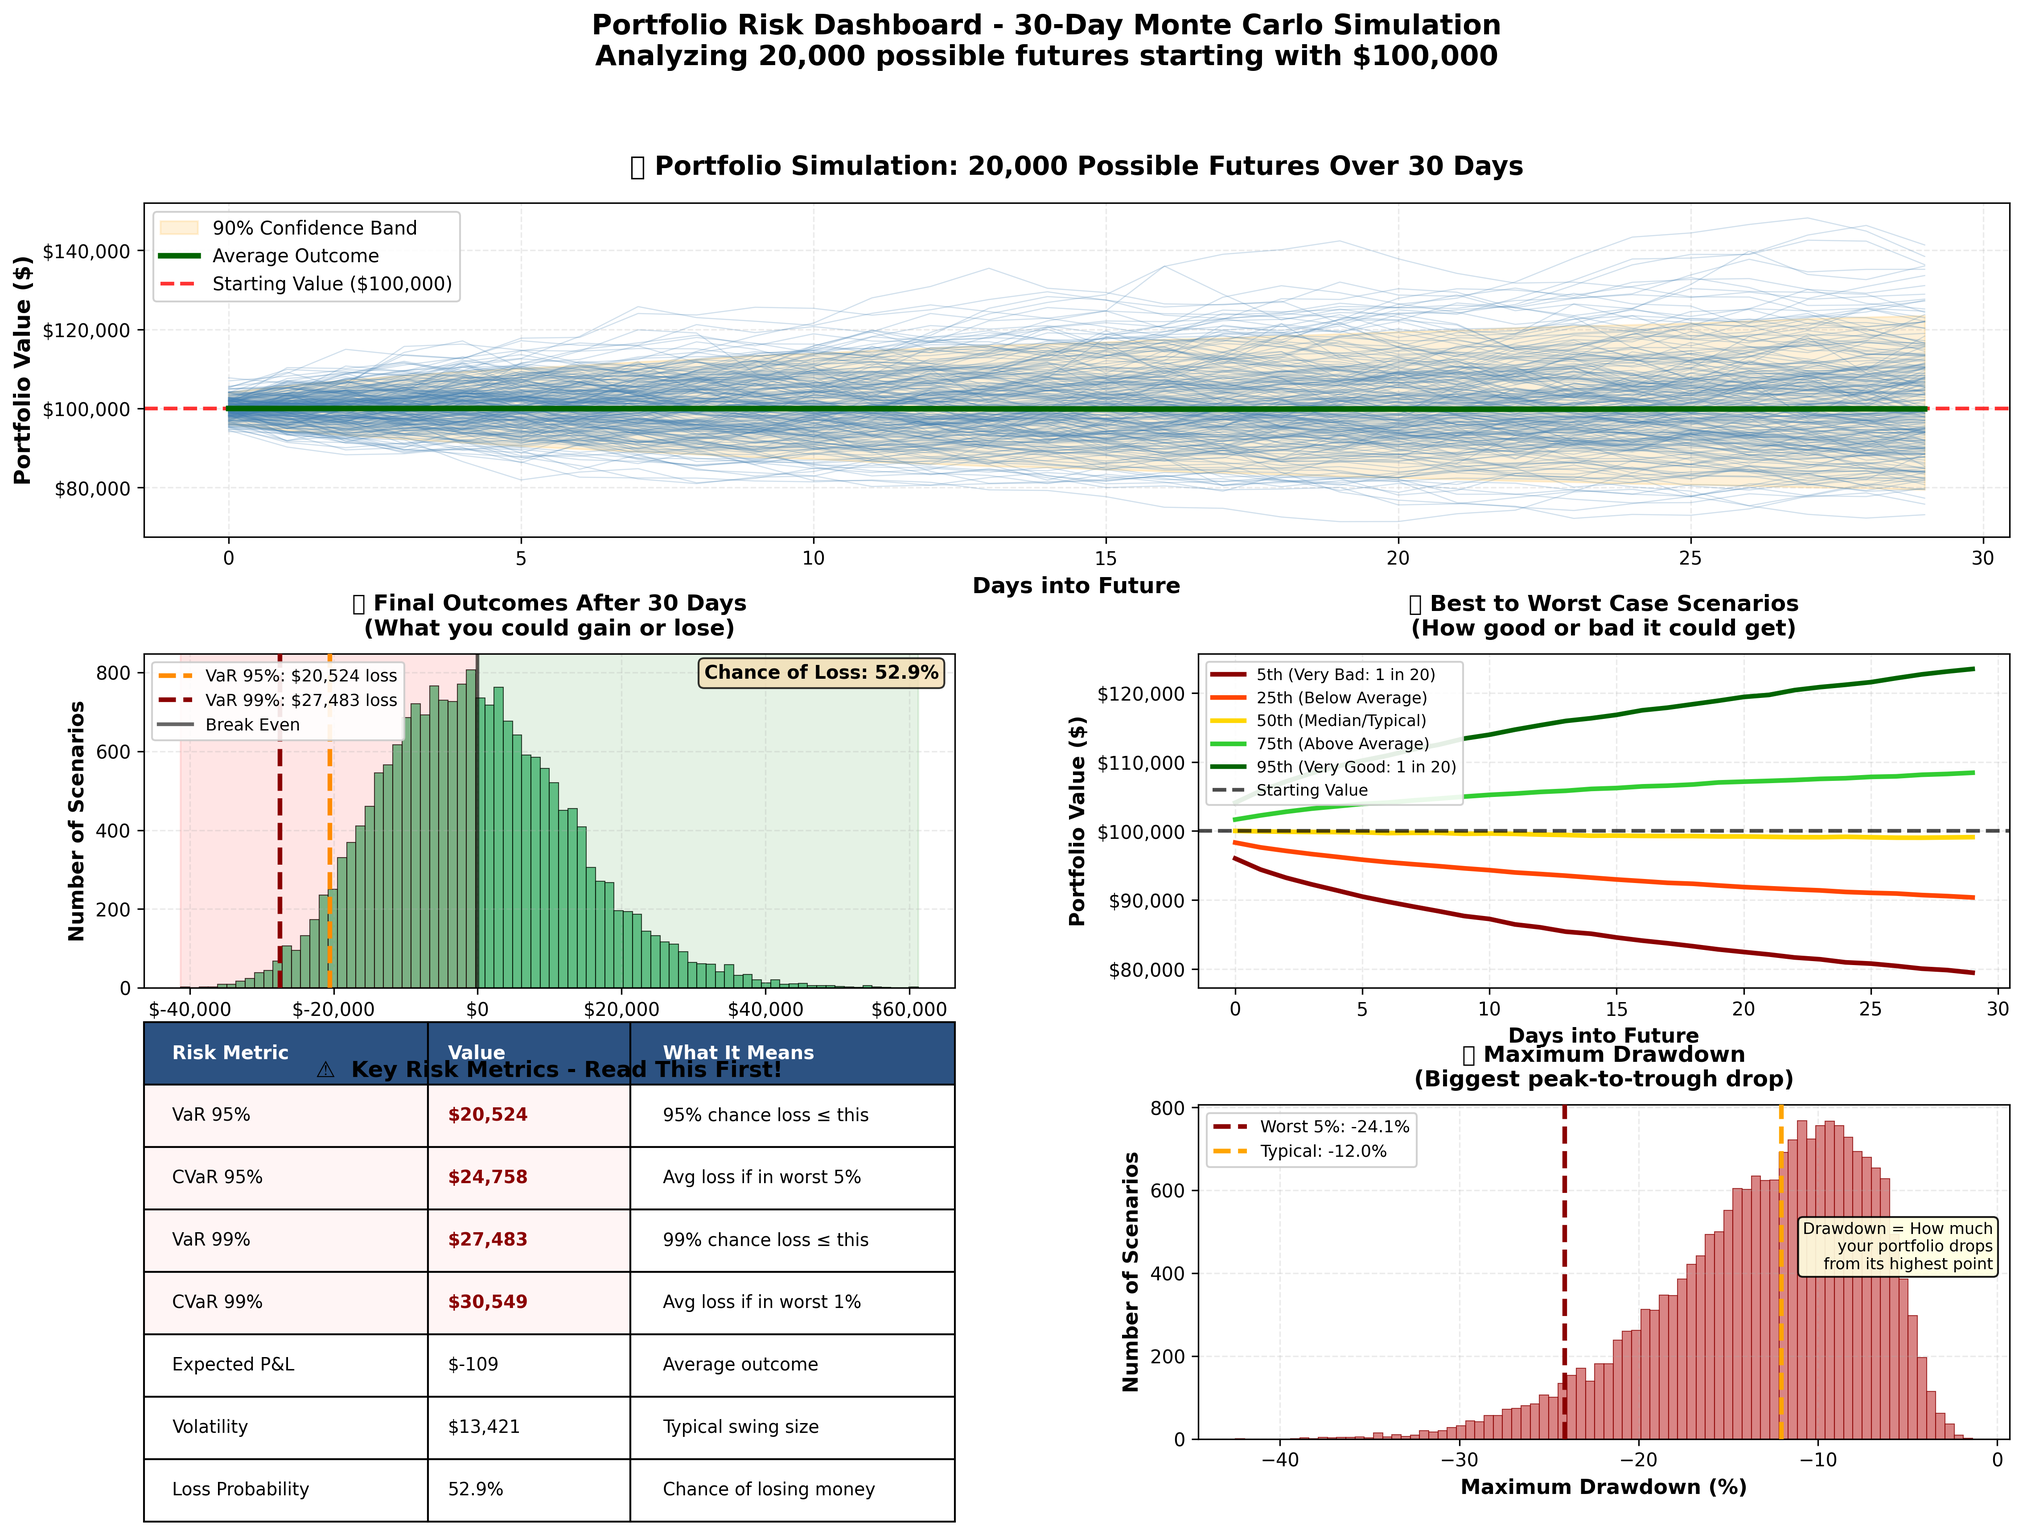
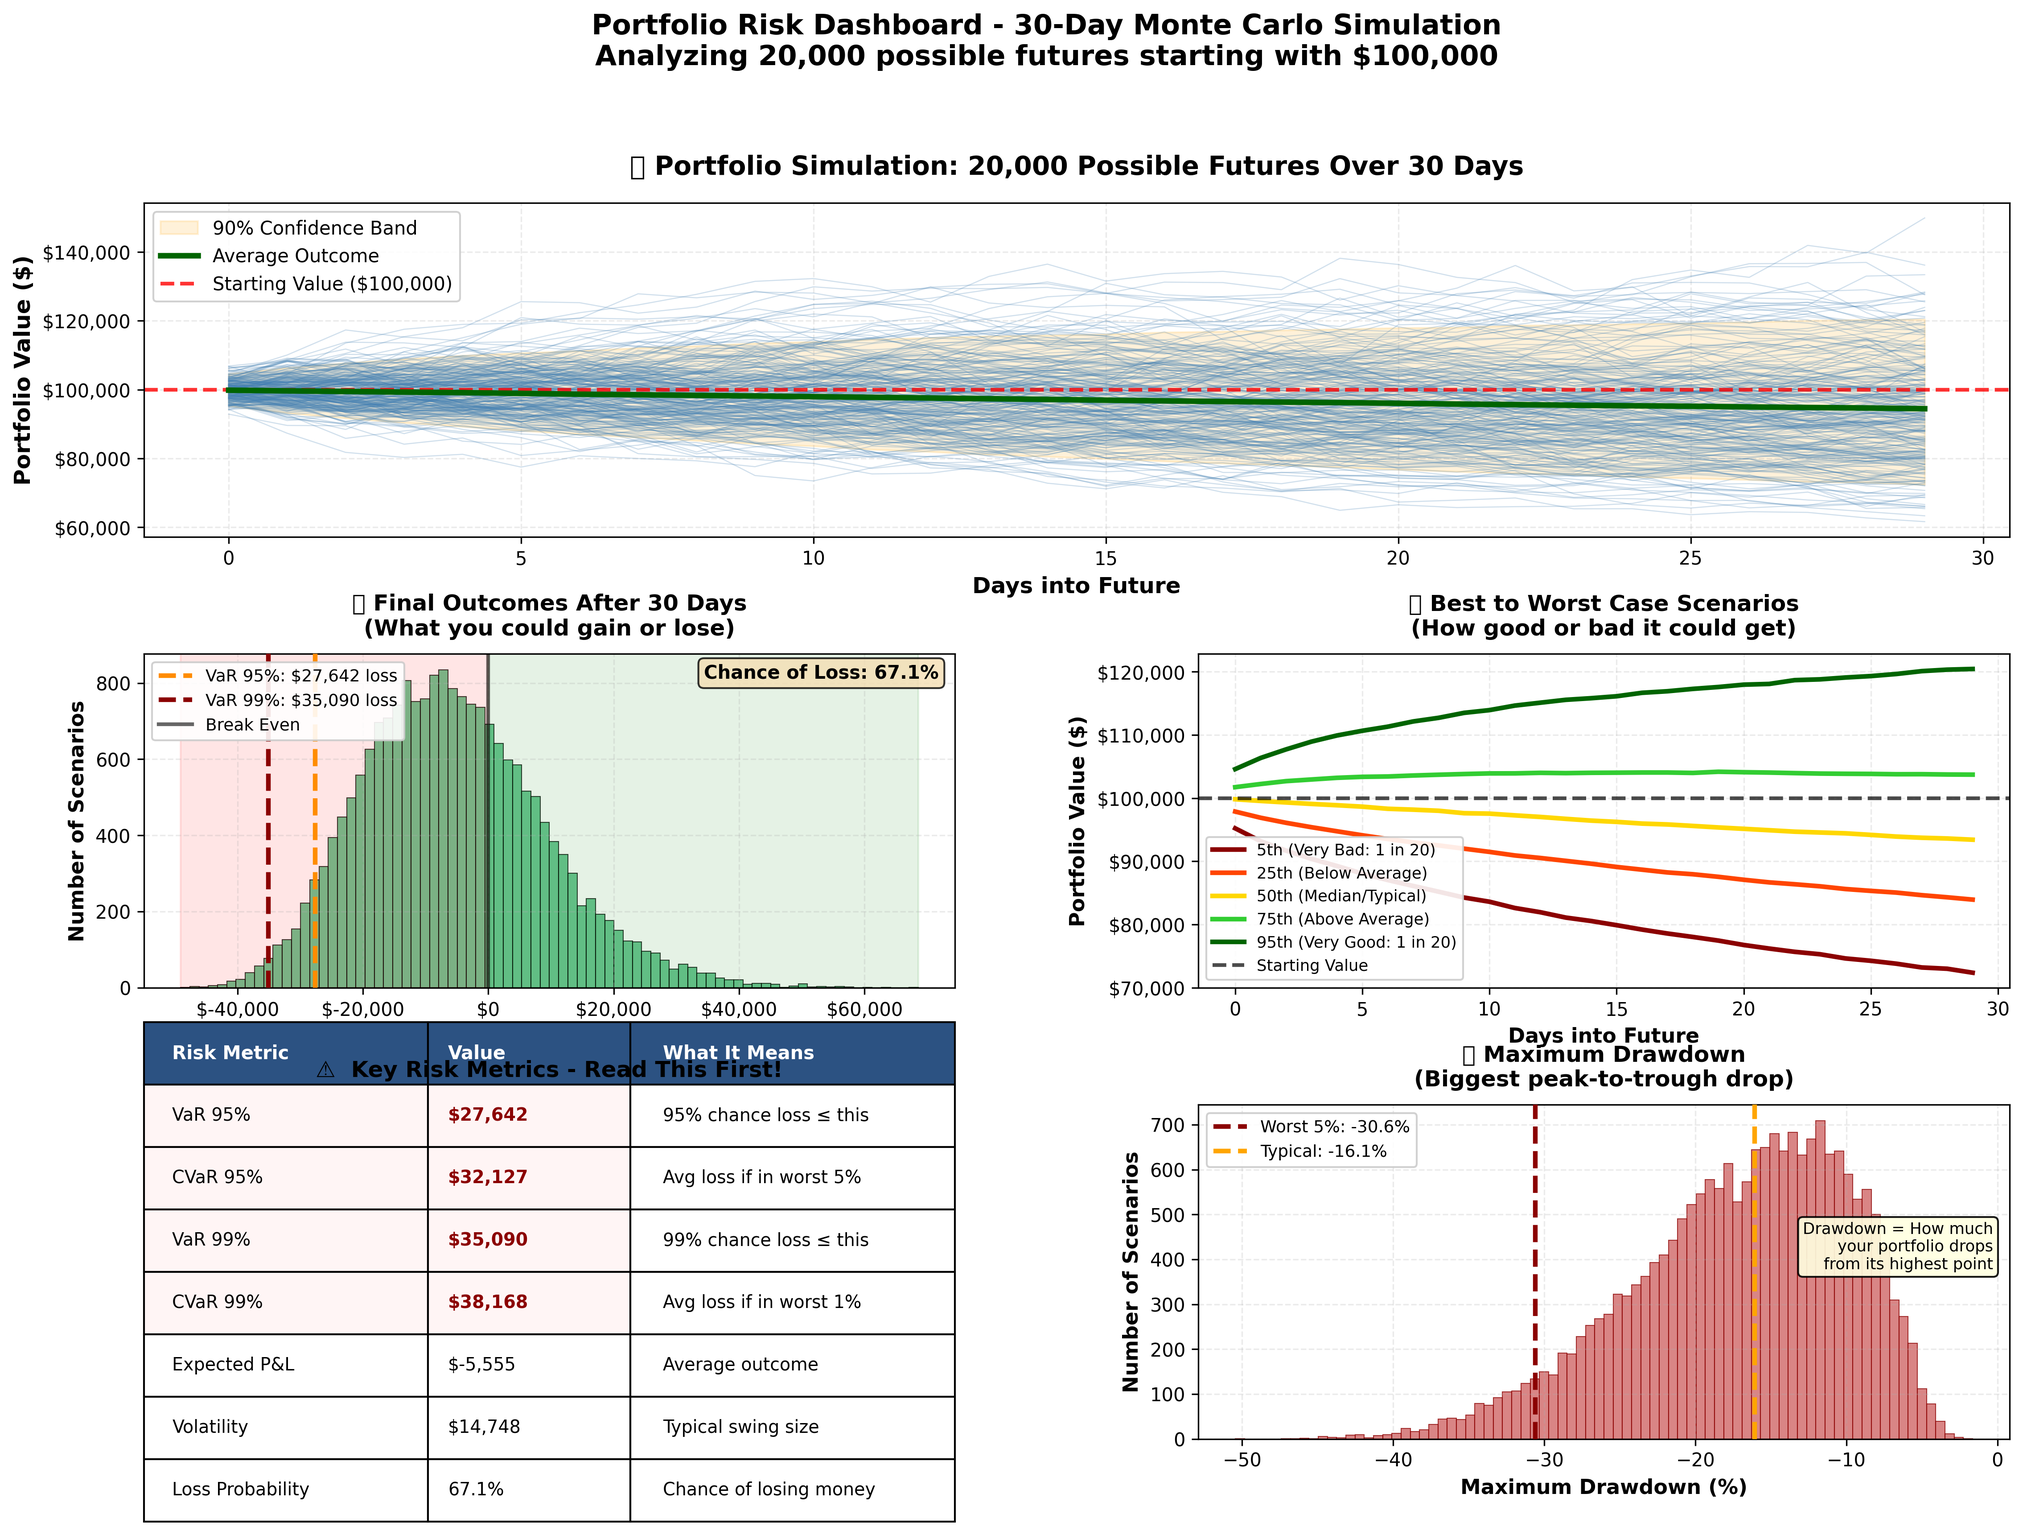
bear and bull

diff --git a/src/reporting/visualize.py b/src/reporting/visualize.py
@@ -325,8 +325,145 @@ def plot_risk_dashboard(
         Path(save_path).parent.mkdir(parents=True, exist_ok=True)
         fig.savefig(save_path, dpi=300, bbox_inches='tight')
         print(f"✓ Dashboard saved to {save_path}")
-    
+
     if show:
         plt.show()
-    
+
+    return fig
+
+
+def plot_regime_comparison(
+    mu_flat: np.ndarray,
+    mu_ewma: np.ndarray,
+    cov_flat: np.ndarray,
+    cov_ewma: np.ndarray,
+    pnl_flat: np.ndarray,
+    pnl_ewma: np.ndarray,
+    var_95_flat: float,
+    var_95_ewma: float,
+    var_99_flat: float,
+    var_99_ewma: float,
+    asset_names: list[str],
+    initial_value: float = 1.0,
+    ewma_span: int = 60,
+    save_path: str | None = None,
+    show: bool = True,
+) -> plt.Figure:
+    """
+    Three-panel figure showing how EWMA regime-awareness shifts the
+    simulation relative to the flat (equal-weight) historical baseline.
+
+    Panel 1 – Annualised drift per asset (flat vs EWMA)
+    Panel 2 – Annualised volatility per asset (flat vs EWMA)
+    Panel 3 – Overlaid terminal P&L distributions with VaR markers
+    """
+    fig = plt.figure(figsize=(18, 11))
+    gs = fig.add_gridspec(2, 2, hspace=0.38, wspace=0.3)
+
+    ax_drift = fig.add_subplot(gs[0, 0])
+    ax_vol   = fig.add_subplot(gs[0, 1])
+    ax_pnl   = fig.add_subplot(gs[1, :])
+
+    n = len(asset_names)
+    x = np.arange(n)
+    bar_w = 0.35
+
+    # ── Panel 1: Annualised drift ─────────────────────────────────────
+    drift_flat = mu_flat * 252 * 100
+    drift_ewma = mu_ewma * 252 * 100
+
+    bars_f = ax_drift.bar(x - bar_w / 2, drift_flat, bar_w,
+                          label='Flat (full history)', color='steelblue', alpha=0.85)
+    bars_e = ax_drift.bar(x + bar_w / 2, drift_ewma, bar_w,
+                          label=f'EWMA (span={ewma_span}d)', color='darkorange', alpha=0.85)
+
+    ax_drift.axhline(0, color='black', linewidth=0.8, linestyle='--')
+    ax_drift.set_xticks(x)
+    ax_drift.set_xticklabels(asset_names, fontsize=9)
+    ax_drift.set_ylabel('Annualised Return (%)', fontsize=10, fontweight='bold')
+    ax_drift.set_title('Drift: Current Regime vs Long-Run Average',
+                       fontsize=11, fontweight='bold', pad=10)
+    ax_drift.legend(fontsize=9, framealpha=0.9)
+    ax_drift.grid(True, axis='y', alpha=0.25, linestyle='--')
+    ax_drift.yaxis.set_major_formatter(mtick.FuncFormatter(lambda v, _: f'{v:+.1f}%'))
+
+    # Label each bar with its value
+    for bar in list(bars_f) + list(bars_e):
+        h = bar.get_height()
+        ax_drift.text(bar.get_x() + bar.get_width() / 2, h + (1.5 if h >= 0 else -3.5),
+                      f'{h:+.1f}%', ha='center', va='bottom', fontsize=7.5)
+
+    # ── Panel 2: Annualised volatility ────────────────────────────────
+    vol_flat = np.sqrt(np.diag(cov_flat)) * np.sqrt(252) * 100
+    vol_ewma = np.sqrt(np.diag(cov_ewma)) * np.sqrt(252) * 100
+
+    bars_vf = ax_vol.bar(x - bar_w / 2, vol_flat, bar_w,
+                         label='Flat (full history)', color='steelblue', alpha=0.85)
+    bars_ve = ax_vol.bar(x + bar_w / 2, vol_ewma, bar_w,
+                         label=f'EWMA (span={ewma_span}d)', color='darkorange', alpha=0.85)
+
+    ax_vol.set_xticks(x)
+    ax_vol.set_xticklabels(asset_names, fontsize=9)
+    ax_vol.set_ylabel('Annualised Volatility (%)', fontsize=10, fontweight='bold')
+    ax_vol.set_title('Volatility: Current Regime vs Long-Run Average',
+                     fontsize=11, fontweight='bold', pad=10)
+    ax_vol.legend(fontsize=9, framealpha=0.9)
+    ax_vol.grid(True, axis='y', alpha=0.25, linestyle='--')
+    ax_vol.yaxis.set_major_formatter(mtick.FuncFormatter(lambda v, _: f'{v:.1f}%'))
+
+    for bar in list(bars_vf) + list(bars_ve):
+        h = bar.get_height()
+        ax_vol.text(bar.get_x() + bar.get_width() / 2, h + 0.5,
+                    f'{h:.1f}%', ha='center', va='bottom', fontsize=7.5)
+
+    # ── Panel 3: Overlaid P&L distributions ──────────────────────────
+    pnl_min = min(pnl_flat.min(), pnl_ewma.min())
+    pnl_max = max(pnl_flat.max(), pnl_ewma.max())
+    bins = np.linspace(pnl_min, pnl_max, 100)
+
+    ax_pnl.hist(pnl_flat, bins=bins, alpha=0.45, color='steelblue',
+                label='Flat (full history)', density=True)
+    ax_pnl.hist(pnl_ewma, bins=bins, alpha=0.45, color='darkorange',
+                label=f'EWMA (span={ewma_span}d)', density=True)
+
+    # VaR markers for both
+    ax_pnl.axvline(-var_95_flat, color='steelblue', linestyle='--', linewidth=2,
+                   label=f'VaR 95% flat: ${var_95_flat:,.0f}')
+    ax_pnl.axvline(-var_95_ewma, color='darkorange', linestyle='--', linewidth=2,
+                   label=f'VaR 95% EWMA: ${var_95_ewma:,.0f}')
+    ax_pnl.axvline(-var_99_flat, color='steelblue', linestyle=':', linewidth=2,
+                   label=f'VaR 99% flat: ${var_99_flat:,.0f}')
+    ax_pnl.axvline(-var_99_ewma, color='darkorange', linestyle=':', linewidth=2,
+                   label=f'VaR 99% EWMA: ${var_99_ewma:,.0f}')
+    ax_pnl.axvline(0, color='black', linewidth=1.2, alpha=0.6)
+
+    # Annotate shift in expected P&L
+    delta_mean = pnl_ewma.mean() - pnl_flat.mean()
+    ax_pnl.text(0.01, 0.97,
+                f'EWMA mean P&L shift vs flat: ${delta_mean:+,.0f}',
+                transform=ax_pnl.transAxes, va='top', fontsize=10, fontweight='bold',
+                bbox=dict(boxstyle='round', facecolor='lightyellow', alpha=0.9))
+
+    ax_pnl.set_xlabel('Terminal Profit / Loss ($)', fontsize=11, fontweight='bold')
+    ax_pnl.set_ylabel('Density', fontsize=11, fontweight='bold')
+    ax_pnl.set_title('P&L Distribution: How Regime-Awareness Shifts the Simulation',
+                     fontsize=12, fontweight='bold', pad=10)
+    ax_pnl.legend(fontsize=9, framealpha=0.9, ncol=2)
+    ax_pnl.grid(True, alpha=0.25, linestyle='--')
+    ax_pnl.xaxis.set_major_formatter(mtick.FuncFormatter(lambda v, _: f'${v:,.0f}'))
+
+    plt.suptitle(
+        f'Regime Comparison — Flat (full history) vs EWMA (recent {ewma_span} days)\n'
+        f'Starting portfolio: ${initial_value:,.0f}',
+        fontsize=14, fontweight='bold', y=1.01,
+    )
+
+    if save_path:
+        Path(save_path).parent.mkdir(parents=True, exist_ok=True)
+        fig.savefig(save_path, dpi=300, bbox_inches='tight')
+        print(f"✓ Regime comparison saved to {save_path}")
+
+    if show:
+        plt.show()
+
     return fig

diff --git a/run_analysis.py b/run_analysis.py
@@ -10,10 +10,10 @@ import numpy as np
 import matplotlib
 matplotlib.use('Agg')  # Use non-interactive backend to avoid display issues
 
-from src.data.binance import load_binance_price_data
+from src.data.binance import load_binance_price_data, compute_ewma_params
 from src.simulation.monte_carlo import MCConfig, simulate_correlated_returns, portfolio_path_pnl
 from src.reporting.risk import compute_risk_metrics
-from src.reporting.visualize import plot_risk_dashboard
+from src.reporting.visualize import plot_risk_dashboard, plot_regime_comparison
 
 
 def main():
@@ -51,13 +51,18 @@ def main():
     
     print("2⃣  Computing returns and statistics...")
     rets = data.returns
-    mu = rets.mean().to_numpy()
-    cov = rets.cov().to_numpy()
-    
-    print(f"\n   📈 Daily Mean Returns:")
-    for token, ticker, mean_ret in zip(token_names, tickers, mu):
-        annual_ret = mean_ret * 252 * 100  # Annualized
-        print(f"     {token:12s} ({ticker:10s}): {mean_ret:+.6f} → {annual_ret:+7.2f}% annualized")
+
+    # EWMA parameters adapt to the current market regime (span=60 ≈ 3-month memory)
+    EWMA_SPAN = 60
+    mu, cov = compute_ewma_params(rets, span=EWMA_SPAN)
+    mu_flat = rets.mean().to_numpy()
+    cov_flat = rets.cov().to_numpy()
+
+    print(f"\n   📈 Daily Mean Returns  (EWMA span={EWMA_SPAN}d vs flat {len(rets)}-day avg):")
+    for token, ticker, m_ewma, m_flat in zip(token_names, tickers, mu, mu_flat):
+        ann_ewma = m_ewma * 252 * 100
+        ann_flat = m_flat * 252 * 100
+        print(f"     {token:12s} ({ticker:10s}):  EWMA {ann_ewma:+7.2f}%  |  flat {ann_flat:+7.2f}%  annualized")
     
     print(f"\n   📊 Correlation Matrix:")
     corr = rets.corr()
@@ -79,22 +84,30 @@ def main():
     for token, weight in zip(token_names, weights):
         print(f"     {token:12s}: {weight:.2%}")
     
-    print("\n4⃣  Running Monte Carlo simulation...")
+    print("\n4⃣  Running Monte Carlo simulation (flat + EWMA)...")
     initial_value = 100000.0
     config = MCConfig(horizon_days=30, n_paths=20000, seed=42)
+
+    # EWMA simulation (regime-aware)
     sim = simulate_correlated_returns(mu=mu, cov=cov, config=config)
     pnl = portfolio_path_pnl(sim, weights=weights, initial_value=initial_value)
+
+    # Flat simulation (historical baseline) — same seed for fair comparison
+    sim_flat = simulate_correlated_returns(mu=mu_flat, cov=cov_flat, config=config)
+    pnl_flat_sim = portfolio_path_pnl(sim_flat, weights=weights, initial_value=initial_value)
+
     print(f"   ✓ Simulated {config.n_paths:,} paths over {config.horizon_days} days")
     print(f"   ✓ Initial portfolio value: ${initial_value:,.2f}\n")
     
     print("5⃣  Computing risk metrics...")
     metrics = compute_risk_metrics(pnl)
+    metrics_flat = compute_risk_metrics(pnl_flat_sim)
     
     print("\n" + "="*60)
     print("PORTFOLIO RISK METRICS (30-Day Horizon)")
     print("="*60)
     print(f"\n💰 Expected Performance:")
-    print(f"   Mean P&L:       ${pnl.mean():+.4f}  ({pnl.mean()*100:+.2f}%)")
+    print(f"   Mean P&L:       ${pnl.mean():+.4f}  ({pnl.mean()/initial_value*100:+.2f}%)")
     print(f"   Median P&L:     ${np.median(pnl):+.4f}")
     print(f"   Std Deviation:  ${pnl.std():.4f}")
     
@@ -106,8 +119,8 @@ def main():
     print(f"   Probability of Loss: {(pnl < 0).mean():.2%}")
     
     print(f"\n📊 Extreme Scenarios:")
-    print(f"   Best Case:      ${pnl.max():+.4f}  ({pnl.max()*100:+.2f}%)")
-    print(f"   Worst Case:     ${pnl.min():+.4f}  ({pnl.min()*100:+.2f}%)")
+    print(f"   Best Case:      ${pnl.max():+.4f}  ({pnl.max()/initial_value*100:+.2f}%)")
+    print(f"   Worst Case:     ${pnl.min():+.4f}  ({pnl.min()/initial_value*100:+.2f}%)")
     print(f"   5th Percentile: ${np.percentile(pnl, 5):+.4f}")
     print(f"   95th Percentile: ${np.percentile(pnl, 95):+.4f}")
     
@@ -139,12 +152,12 @@ def main():
         f.write(f"Mean P&L: ${pnl.mean():+.4f}\n")
         f.write(f"Prob(Loss): {(pnl < 0).mean():.2%}\n")
     
-    print("\n6⃣  Generating risk dashboard visualization...")
+    print("\n6⃣  Generating visualizations...")
     # Compute portfolio value paths for visualization
     port_log_ret = sim @ weights
     gross = np.exp(port_log_ret)
     portfolio_values = initial_value * np.cumprod(gross, axis=1)
-    
+
     plot_risk_dashboard(
         simulation_df=portfolio_values,
         pnl=pnl,
@@ -154,14 +167,33 @@ def main():
         cvar_99=metrics.cvar_99,
         initial_value=initial_value,
         save_path="reports/portfolio_dashboard.png",
-        show=False,  # Save only, don't try to display
+        show=False,
     )
-    
+
+    plot_regime_comparison(
+        mu_flat=mu_flat,
+        mu_ewma=mu,
+        cov_flat=cov_flat,
+        cov_ewma=cov,
+        pnl_flat=pnl_flat_sim,
+        pnl_ewma=pnl,
+        var_95_flat=metrics_flat.var_95,
+        var_95_ewma=metrics.var_95,
+        var_99_flat=metrics_flat.var_99,
+        var_99_ewma=metrics.var_99,
+        asset_names=token_names,
+        initial_value=initial_value,
+        ewma_span=EWMA_SPAN,
+        save_path="reports/regime_comparison.png",
+        show=False,
+    )
+
     print("\n✅ Analysis Complete!")
     print(f"   💡 Tokens analyzed: {', '.join(token_names)}")
     print(f"   🔑 Data source: Binance API")
     print(f"   📁 Results saved to: reports/portfolio_analysis.txt")
     print(f"   📊 Dashboard saved to: reports/portfolio_dashboard.png")
+    print(f"   📊 Regime comparison saved to: reports/regime_comparison.png")
 
 
 if __name__ == "__main__":

diff --git a/src/main.py b/src/main.py
@@ -3,7 +3,7 @@ from __future__ import annotations
 import argparse
 import numpy as np
 from pathlib import Path
-from src.data.binance import load_binance_price_data
+from src.data.binance import load_binance_price_data, compute_ewma_params
 from src.simulation.monte_carlo import MCConfig, simulate_correlated_returns, portfolio_path_pnl
 from src.reporting.risk import compute_risk_metrics
 from src.reporting.visualize import plot_simulation_paths, plot_pnl_distribution, plot_risk_dashboard
@@ -18,6 +18,8 @@ def parse_args():
     p.add_argument("--paths", type=int, default=20000, help="Number of Monte Carlo paths")
     p.add_argument("--seed", type=int, default=42, help="Random seed")
     p.add_argument("--initial", type=float, default=1.0, help="Initial portfolio value")
+    p.add_argument("--ewma", type=int, default=0, metavar="SPAN",
+                   help="Use EWMA mu/cov with this span in days (e.g. 60). 0 = flat average")
     p.add_argument("--plot", action="store_true", help="Show visualization plots")
     p.add_argument("--dashboard", action="store_true", help="Show full risk dashboard")
     p.add_argument("--save", type=str, default=None, help="Save plots to directory (e.g., ./reports)")
@@ -30,8 +32,12 @@ def main():
     data = load_binance_price_data(args.tickers, days=args.days_back)
     rets = data.returns
 
-    mu = rets.mean().to_numpy()            # daily mean log return
-    cov = rets.cov().to_numpy()            # daily covariance of log returns
+    if args.ewma > 0:
+        mu, cov = compute_ewma_params(rets, span=args.ewma)
+        print(f"[EWMA] Using exponentially weighted mu/cov (span={args.ewma} days)")
+    else:
+        mu = rets.mean().to_numpy()        # daily mean log return
+        cov = rets.cov().to_numpy()        # daily covariance of log returns
 
     # equal weights
     n_assets = rets.shape[1]

diff --git a/src/data/binance.py b/src/data/binance.py
@@ -89,6 +89,36 @@ def compute_log_returns(prices: pd.DataFrame) -> pd.DataFrame:
     return rets.dropna()
 
 
+def compute_ewma_params(
+    returns: pd.DataFrame,
+    span: int = 60,
+) -> tuple[np.ndarray, np.ndarray]:
+    """
+    Estimate mu and cov using exponentially weighted moments.
+
+    Recent observations get higher weight, so the estimates naturally
+    reflect the current market regime (bull / bear) without needing
+    explicit regime labels.
+
+    Args:
+        returns: Daily log-return DataFrame (rows = days, cols = assets).
+        span:    EWMA half-life in days. ~20 = very reactive, ~60 = 3-month
+                 memory, ~120 = subdued regime sensitivity.
+
+    Returns:
+        mu:  1-D array of EWMA daily mean log-returns (one per asset).
+        cov: 2-D EWMA covariance matrix.
+    """
+    ewm = returns.ewm(span=span, adjust=True)
+    mu = ewm.mean().iloc[-1].to_numpy()
+
+    ewm_cov_full = ewm.cov()
+    last_date = ewm_cov_full.index.get_level_values(0)[-1]
+    cov = ewm_cov_full.loc[last_date].to_numpy()
+
+    return mu, cov
+
+
 def load_binance_price_data(
     symbols: List[str],
     days: int = 730,

diff --git a/src/simulation/monte_carlo.py b/src/simulation/monte_carlo.py
@@ -19,7 +19,9 @@ def simulate_correlated_returns(
 ) -> np.ndarray:
     rng = np.random.default_rng(config.seed)
     n_assets = len(mu)
-    L = np.linalg.cholesky(cov)
+    # Small regularization to handle near-singular covariance (e.g. stablecoins)
+    cov_reg = cov + 1e-10 * np.eye(n_assets)
+    L = np.linalg.cholesky(cov_reg)
     z = rng.standard_normal(size = (config.n_paths, config.horizon_days, n_assets))
     correlated = z @ L.T
     simulated = correlated + mu
